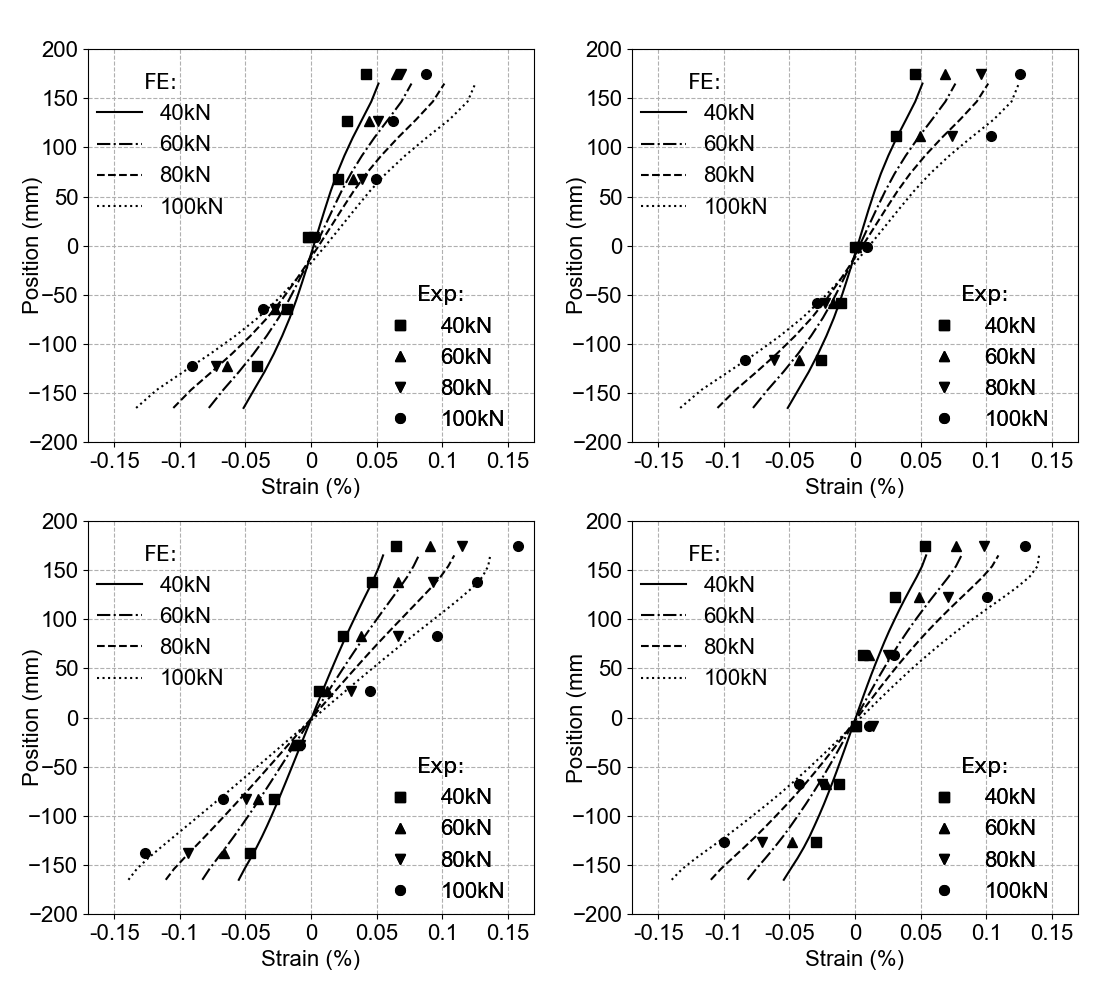
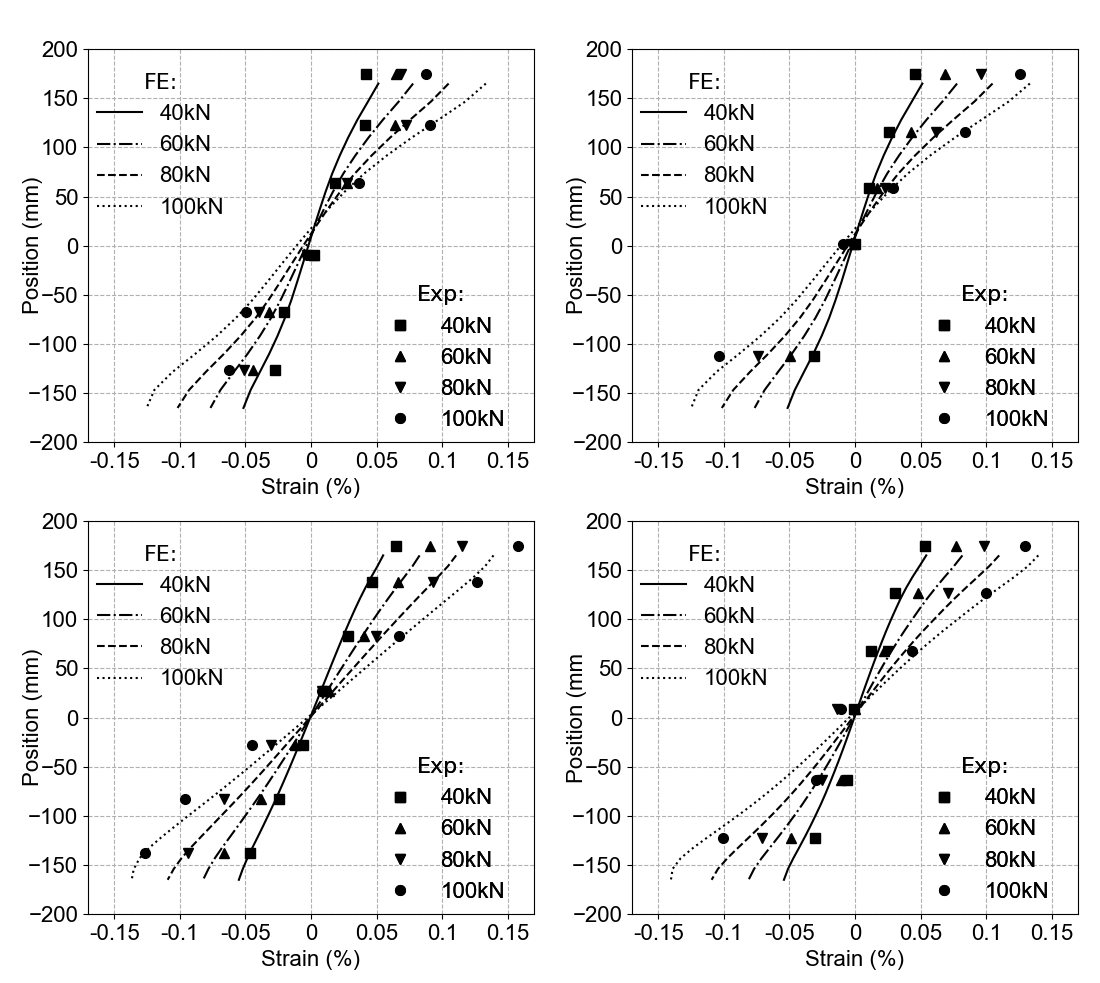
190718

diff --git a/BeamRootStrains.py b/BeamRootStrains.py
@@ -14,12 +14,12 @@ for num, line in enumerate(content):
 		sym = float(data[0])
 		DataSX1[sym] = []
 		for obj in data[1:]:
-			DataSX1[sym].append(float(obj))
+			DataSX1[sym].append(-float(obj))
 	elif num >= 5:
 		sym = float(data[0])
 		EDataSX1[sym] = []
 		for obj in data[1:]:
-			EDataSX1[sym].append(float(obj))
+			EDataSX1[sym].append(-float(obj))
 
 DataSY1 = {}
 EDataSY1 = {}
@@ -30,12 +30,12 @@ for num, line in enumerate(content):
 		sym = float(data[0])
 		DataSY1[sym] = []
 		for obj in data[1:]:
-			DataSY1[sym].append(float(obj))
+			DataSY1[sym].append(-float(obj))
 	elif num >= 5:
 		sym = float(data[0])
 		EDataSY1[sym] = []
 		for obj in data[1:]:
-			EDataSY1[sym].append(float(obj))
+			EDataSY1[sym].append(-float(obj))
 		
 DataSX2 = {}
 EDataSX2 = {}
@@ -46,13 +46,13 @@ for num, line in enumerate(content):
 		sym = float(data[0])
 		DataSX2[sym] = []
 		for obj in data[1:]:
-			DataSX2[sym].append(float(obj))
+			DataSX2[sym].append(-float(obj))
 	elif num >= 5:
 		sym = float(data[0])
 		print("len", len(data))
 		EDataSX2[sym] = []
 		for obj in data[1:]:
-			EDataSX2[sym].append(float(obj))
+			EDataSX2[sym].append(-float(obj))
 
 DataSY2 = {}
 EDataSY2 = {}
@@ -63,12 +63,12 @@ for num, line in enumerate(content):
 		sym = float(data[0])
 		DataSY2[sym] = []
 		for obj in data[1:]:
-			DataSY2[sym].append(float(obj))
+			DataSY2[sym].append(-float(obj))
 	elif num >= 5:
 		sym = float(data[0])
 		EDataSY2[sym] = []
 		for obj in data[1:]:
-			EDataSY2[sym].append(float(obj))
+			EDataSY2[sym].append(-float(obj))
 			
 print(EDataSX2)
 		
@@ -80,10 +80,10 @@ p12,= plt.plot(DataSX1[60], DataSX1[0], color='black', label='60kN', linestyle='
 p13,= plt.plot(DataSX1[80], DataSX1[0], color='black', label='80kN', linestyle='dashed')
 p14,= plt.plot(DataSX1[100], DataSX1[0], color='black', label='100kN', linestyle='dotted')
 
-p11e,= plt.plot(EDataSX1[40][0:-1], EDataSX1[0][0:-1], color='black', linestyle='None', marker='s', markersize=7, label='40kN')
-p12e,= plt.plot(EDataSX1[60][0:-1], EDataSX1[0][0:-1], color='black', linestyle='None', marker='^', markersize=7, label='60kN')
-p13e,= plt.plot(EDataSX1[80][0:-1], EDataSX1[0][0:-1], color='black', linestyle='None', marker='v', markersize=7, label='80kN')
-p14e,= plt.plot(EDataSX1[100][0:-1], EDataSX1[0][0:-1], color='black', linestyle='None', marker='o', markersize=7, label='100kN')
+p11e,= plt.plot(EDataSX1[40][1:], EDataSX1[0][1:], color='black', linestyle='None', marker='s', markersize=7, label='40kN')
+p12e,= plt.plot(EDataSX1[60][1:], EDataSX1[0][1:], color='black', linestyle='None', marker='^', markersize=7, label='60kN')
+p13e,= plt.plot(EDataSX1[80][1:], EDataSX1[0][1:], color='black', linestyle='None', marker='v', markersize=7, label='80kN')
+p14e,= plt.plot(EDataSX1[100][1:], EDataSX1[0][1:], color='black', linestyle='None', marker='o', markersize=7, label='100kN')
 
 plt.grid(linestyle = "--")
 plt.ylim(-200, 200)
@@ -130,10 +130,10 @@ p12,= plt.plot(DataSY1[60], DataSY1[0], color='black', label='60kN', linestyle='
 p13,= plt.plot(DataSY1[80], DataSY1[0], color='black', label='80kN', linestyle='dashed')
 p14,= plt.plot(DataSY1[100], DataSY1[0], color='black', label='100kN', linestyle='dotted')
 
-p11e,= plt.plot(EDataSY1[40][0:-1], EDataSY1[0][0:-1], color='black', linestyle='None', marker='s', markersize=7, label='40kN')
-p12e,= plt.plot(EDataSY1[60][0:-1], EDataSY1[0][0:-1], color='black', linestyle='None', marker='^', markersize=7, label='60kN')
-p13e,= plt.plot(EDataSY1[80][0:-1], EDataSY1[0][0:-1], color='black', linestyle='None', marker='v', markersize=7, label='80kN')
-p14e,= plt.plot(EDataSY1[100][0:-1], EDataSY1[0][0:-1], color='black', linestyle='None', marker='o', markersize=7, label='100kN')
+p11e,= plt.plot(EDataSY1[40][1:], EDataSY1[0][1:], color='black', linestyle='None', marker='s', markersize=7, label='40kN')
+p12e,= plt.plot(EDataSY1[60][1:], EDataSY1[0][1:], color='black', linestyle='None', marker='^', markersize=7, label='60kN')
+p13e,= plt.plot(EDataSY1[80][1:], EDataSY1[0][1:], color='black', linestyle='None', marker='v', markersize=7, label='80kN')
+p14e,= plt.plot(EDataSY1[100][1:], EDataSY1[0][1:], color='black', linestyle='None', marker='o', markersize=7, label='100kN')
 
 firstlegend = plt.legend(handles=[p11, p12, p13, p14], loc=1, bbox_to_anchor=(0.35, 0.99), prop=fontprop, title='FE:', frameon=False)
 secondlegend = plt.legend(handles=[p11e, p12e, p13e, p14e], loc=1, bbox_to_anchor=(0.98, 0.45), prop=fontprop, title='Exp:', frameon=False)
